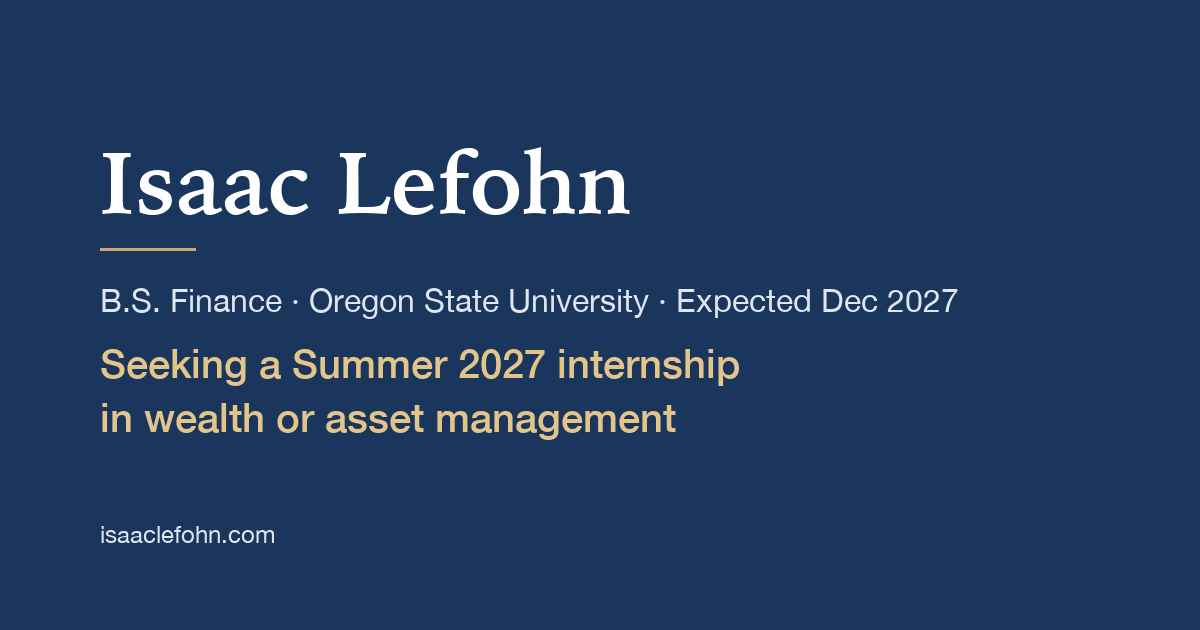
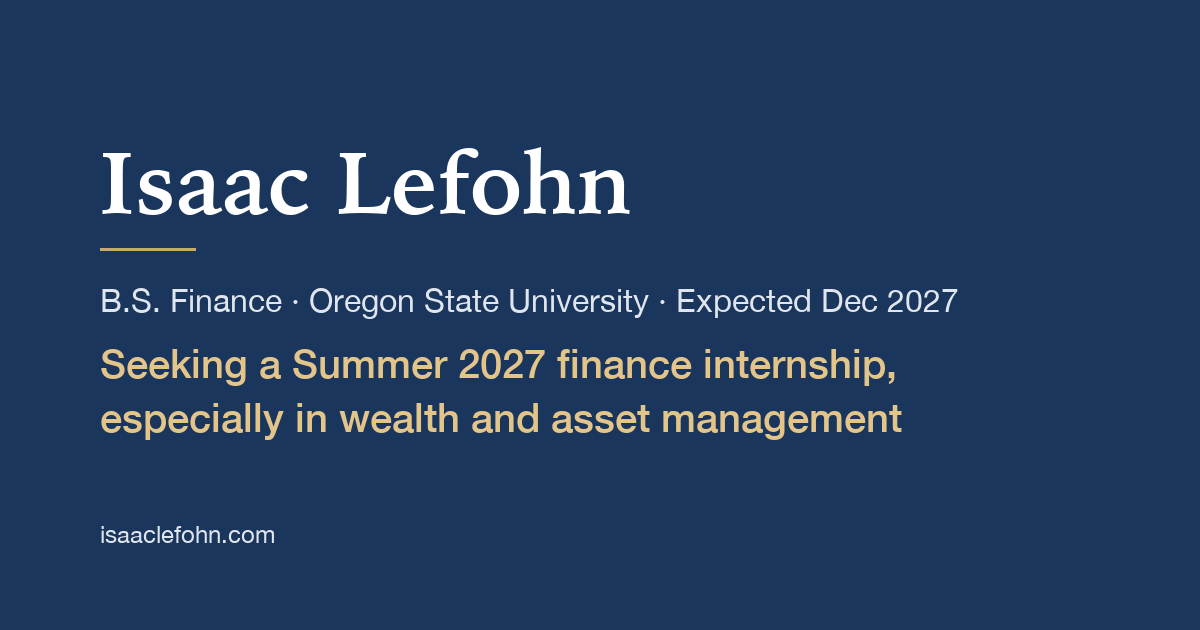
State interests without closing doors
- Ask now reads "Seeking a Summer 2027 finance internship, especially in
  wealth and asset management" (hero, footer, meta, link-preview card).
- Interests line names risk management and investment banking as genuine
  interests alongside wealth and asset management.
- Page descriptions list investment banking with the other areas.
- Preview card regenerated with the new ask line.

Changed region(s): [[0.0925, 0.6333, 0.7708, 0.6937], [0.4625, 0.5429, 0.74, 0.6032]]

diff --git a/index.html b/index.html
@@ -4,24 +4,24 @@
     <meta charset="UTF-8">
     <meta name="viewport" content="width=device-width, initial-scale=1.0">
     <title>Isaac Lefohn | Finance, Oregon State | Summer 2027 internship</title>
-    <meta name="description" content="Isaac Lefohn, Finance student at Oregon State University (B.S. expected December 2027), seeking a Summer 2027 internship in wealth management, asset management, or risk management. Published investment research and portfolio analysis.">
+    <meta name="description" content="Isaac Lefohn, Finance student at Oregon State University (B.S. expected December 2027), seeking a Summer 2027 internship in wealth management, asset management, risk management, or investment banking. Published investment research and portfolio analysis.">
     <meta name="author" content="Isaac Lefohn">
     <link rel="canonical" href="https://isaaclefohn.com/">
 
     <!-- Open Graph / link previews (iMessage reads og:title and og:image) -->
     <meta property="og:type" content="website">
     <meta property="og:title" content="Isaac Lefohn | Finance, Oregon State | Summer 2027 internship">
-    <meta property="og:description" content="Finance student at Oregon State University seeking a Summer 2027 internship in wealth management, asset management, or risk management. Published investment research and portfolio analysis.">
+    <meta property="og:description" content="Finance student at Oregon State University seeking a Summer 2027 internship in wealth management, asset management, risk management, or investment banking. Published investment research and portfolio analysis.">
     <meta property="og:url" content="https://isaaclefohn.com/">
     <meta property="og:site_name" content="Isaac Lefohn">
     <meta property="og:image" content="https://isaaclefohn.com/og-card-2026-10.png">
     <meta property="og:image:type" content="image/png">
     <meta property="og:image:width" content="1200">
     <meta property="og:image:height" content="630">
-    <meta property="og:image:alt" content="Isaac Lefohn. B.S. Finance, Oregon State University, expected December 2027. Seeking a Summer 2027 internship in wealth or asset management.">
+    <meta property="og:image:alt" content="Isaac Lefohn. B.S. Finance, Oregon State University, expected December 2027. Seeking a Summer 2027 finance internship, especially in wealth and asset management.">
     <meta name="twitter:card" content="summary_large_image">
     <meta name="twitter:image" content="https://isaaclefohn.com/og-card-2026-10.png">
-    <meta name="twitter:image:alt" content="Isaac Lefohn. B.S. Finance, Oregon State University, expected December 2027. Seeking a Summer 2027 internship in wealth or asset management.">
+    <meta name="twitter:image:alt" content="Isaac Lefohn. B.S. Finance, Oregon State University, expected December 2027. Seeking a Summer 2027 finance internship, especially in wealth and asset management.">
 
     <!-- JSON-LD Person schema -->
     <script type="application/ld+json">
@@ -31,7 +31,7 @@
       "name": "Isaac Lefohn",
       "url": "https://isaaclefohn.com/",
       "jobTitle": "Finance Student",
-      "description": "Finance student at Oregon State University, B.S. expected December 2027, seeking a Summer 2027 internship in wealth management, asset management, or risk management.",
+      "description": "Finance student at Oregon State University, B.S. expected December 2027, seeking a Summer 2027 internship in wealth management, asset management, risk management, or investment banking.",
       "affiliation": {
         "@type": "CollegeOrUniversity",
         "name": "Oregon State University",
@@ -85,7 +85,7 @@
             <div>
                 <p class="kicker">B.S. Finance&nbsp;&middot; Oregon State University&nbsp;&middot; Expected December 2027</p>
                 <h1>Isaac Lefohn</h1>
-                <p class="lead">Seeking a Summer 2027 internship in wealth or asset management.</p>
+                <p class="lead">Seeking a Summer 2027 finance internship, especially in wealth and asset management.</p>
                 <p class="meta">Available June&ndash;August 2027 &middot; Portland-based, open to opportunities nationwide</p>
                 <p>I publish my own investment research, with the Excel models and memos behind it.</p>
                 <div class="actions">
@@ -157,7 +157,7 @@
         <div class="wrap"><div class="prose">
             <h2 id="why-heading">Why wealth management</h2>
             <p>I believe financial literacy should be encouraged and taught to everyone. I care about understanding my own finances and planning for the future, and I want to help make that kind of planning accessible to others.</p>
-            <p>I&rsquo;m interested first in wealth management, then asset and investment management, then risk management.</p>
+            <p>I&rsquo;m most drawn to wealth management and asset and investment management, and I&rsquo;m also interested in risk management and investment banking.</p>
         </div></div>
     </section>
 
@@ -211,7 +211,7 @@
 </main>
 
 <footer class="site-footer"><div class="wrap">
-  <p class="footer-ask">Seeking a Summer 2027 internship in wealth or asset management.</p>
+  <p class="footer-ask">Seeking a Summer 2027 finance internship, especially in wealth and asset management.</p>
   <nav class="footer-links" aria-label="Contact"><ul>
     <li><a href="mailto:kiwilefohn@gmail.com?subject=Summer%202027%20internship">Email</a></li>
     <li><a href="tel:+15038477976">Call (503) 847-7976</a></li>

diff --git a/contact.html b/contact.html
@@ -4,23 +4,23 @@
 <meta charset="utf-8">
 <meta name="viewport" content="width=device-width, initial-scale=1">
 <title>Contact | Isaac Lefohn</title>
-<meta name="description" content="Contact Isaac Lefohn, Finance student at Oregon State University seeking a Summer 2027 internship in wealth or asset management. Email, call, text, or LinkedIn.">
+<meta name="description" content="Contact Isaac Lefohn, Finance student at Oregon State University seeking a Summer 2027 finance internship, especially in wealth and asset management. Email, call, text, or LinkedIn.">
 <meta name="author" content="Isaac Lefohn">
 <link rel="canonical" href="https://isaaclefohn.com/contact.html">
 
 <meta property="og:type" content="website">
 <meta property="og:title" content="Contact Isaac Lefohn">
-<meta property="og:description" content="Reach Isaac Lefohn about a Summer 2027 internship in wealth or asset management. Email, call, text, or LinkedIn.">
+<meta property="og:description" content="Reach Isaac Lefohn about a Summer 2027 finance internship, especially in wealth and asset management. Email, call, text, or LinkedIn.">
 <meta property="og:url" content="https://isaaclefohn.com/contact.html">
 <meta property="og:site_name" content="Isaac Lefohn">
 <meta property="og:image" content="https://isaaclefohn.com/og-card-2026-10.png">
 <meta property="og:image:type" content="image/png">
 <meta property="og:image:width" content="1200">
 <meta property="og:image:height" content="630">
-<meta property="og:image:alt" content="Isaac Lefohn. B.S. Finance, Oregon State University, expected December 2027. Seeking a Summer 2027 internship in wealth or asset management.">
+<meta property="og:image:alt" content="Isaac Lefohn. B.S. Finance, Oregon State University, expected December 2027. Seeking a Summer 2027 finance internship, especially in wealth and asset management.">
 <meta name="twitter:card" content="summary_large_image">
 <meta name="twitter:image" content="https://isaaclefohn.com/og-card-2026-10.png">
-<meta name="twitter:image:alt" content="Isaac Lefohn. B.S. Finance, Oregon State University, expected December 2027. Seeking a Summer 2027 internship in wealth or asset management.">
+<meta name="twitter:image:alt" content="Isaac Lefohn. B.S. Finance, Oregon State University, expected December 2027. Seeking a Summer 2027 finance internship, especially in wealth and asset management.">
 
 <meta name="theme-color" content="#ffffff">
 <link rel="stylesheet" href="/styles.css">
@@ -43,7 +43,7 @@
 <main id="main">
   <div class="wrap page-head">
     <h1>Contact</h1>
-    <p class="dek">Seeking a Summer 2027 internship in wealth or asset management.</p>
+    <p class="dek">Seeking a Summer 2027 finance internship, especially in wealth and asset management.</p>
     <p>Email is fastest. Happy to walk through any of the research on a call.</p>
   </div>
 
@@ -82,7 +82,7 @@
 </main>
 
 <footer class="site-footer"><div class="wrap">
-  <p class="footer-ask">Seeking a Summer 2027 internship in wealth or asset management.</p>
+  <p class="footer-ask">Seeking a Summer 2027 finance internship, especially in wealth and asset management.</p>
   <nav class="footer-links" aria-label="Contact"><ul>
     <li><a href="mailto:kiwilefohn@gmail.com?subject=Summer%202027%20internship">Email</a></li>
     <li><a href="tel:+15038477976">Call (503) 847-7976</a></li>

diff --git a/404.html b/404.html
@@ -4,23 +4,23 @@
 <meta charset="utf-8">
 <meta name="viewport" content="width=device-width, initial-scale=1">
 <title>Page not found | Isaac Lefohn</title>
-<meta name="description" content="This page was not found on isaaclefohn.com. Isaac Lefohn, B.S. Finance at Oregon State University, is seeking a Summer 2027 internship in wealth or asset management.">
+<meta name="description" content="This page was not found on isaaclefohn.com. Isaac Lefohn, B.S. Finance at Oregon State University, is seeking a Summer 2027 finance internship, especially in wealth and asset management.">
 <meta name="author" content="Isaac Lefohn">
 <meta name="robots" content="noindex">
 
 <meta property="og:type" content="website">
 <meta property="og:title" content="Page not found | Isaac Lefohn">
-<meta property="og:description" content="Isaac Lefohn, B.S. Finance at Oregon State University, expected December 2027. Seeking a Summer 2027 internship in wealth or asset management.">
+<meta property="og:description" content="Isaac Lefohn, B.S. Finance at Oregon State University, expected December 2027. Seeking a Summer 2027 finance internship, especially in wealth and asset management.">
 <meta property="og:url" content="https://isaaclefohn.com/404.html">
 <meta property="og:site_name" content="Isaac Lefohn">
 <meta property="og:image" content="https://isaaclefohn.com/og-card-2026-10.png">
 <meta property="og:image:type" content="image/png">
 <meta property="og:image:width" content="1200">
 <meta property="og:image:height" content="630">
-<meta property="og:image:alt" content="Isaac Lefohn. B.S. Finance, Oregon State University, expected December 2027. Seeking a Summer 2027 internship in wealth or asset management.">
+<meta property="og:image:alt" content="Isaac Lefohn. B.S. Finance, Oregon State University, expected December 2027. Seeking a Summer 2027 finance internship, especially in wealth and asset management.">
 <meta name="twitter:card" content="summary_large_image">
 <meta name="twitter:image" content="https://isaaclefohn.com/og-card-2026-10.png">
-<meta name="twitter:image:alt" content="Isaac Lefohn. B.S. Finance, Oregon State University, expected December 2027. Seeking a Summer 2027 internship in wealth or asset management.">
+<meta name="twitter:image:alt" content="Isaac Lefohn. B.S. Finance, Oregon State University, expected December 2027. Seeking a Summer 2027 finance internship, especially in wealth and asset management.">
 
 <meta name="theme-color" content="#ffffff">
 <link rel="stylesheet" href="/styles.css">
@@ -55,7 +55,7 @@
 </main>
 
 <footer class="site-footer"><div class="wrap">
-  <p class="footer-ask">Seeking a Summer 2027 internship in wealth or asset management.</p>
+  <p class="footer-ask">Seeking a Summer 2027 finance internship, especially in wealth and asset management.</p>
   <nav class="footer-links" aria-label="Contact"><ul>
     <li><a href="mailto:kiwilefohn@gmail.com?subject=Summer%202027%20internship">Email</a></li>
     <li><a href="tel:+15038477976">Call (503) 847-7976</a></li>

diff --git a/projects/portfolio-analysis/index.html b/projects/portfolio-analysis/index.html
@@ -3,21 +3,21 @@
 <meta charset="utf-8"><meta name="viewport" content="width=device-width, initial-scale=1">
 <meta name="robots" content="noindex">
 <title>Defensive portfolio vs. S&amp;P 500: max drawdown −15.7% vs. −24.5% | Isaac Lefohn</title>
-<meta name="description" content="Investment research by Isaac Lefohn, Oregon State University finance student seeking a Summer 2027 internship in wealth management, asset management, or risk management.">
+<meta name="description" content="Investment research by Isaac Lefohn, Oregon State University finance student seeking a Summer 2027 internship in wealth management, asset management, risk management, or investment banking.">
 <link rel="canonical" href="https://isaaclefohn.com/projects.html#portfolio-analysis">
 <meta property="og:type" content="website">
 <meta property="og:title" content="Defensive portfolio vs. S&amp;P 500: max drawdown −15.7% vs. −24.5% | Isaac Lefohn">
-<meta property="og:description" content="Investment research by Isaac Lefohn, Oregon State University finance student seeking a Summer 2027 internship in wealth management, asset management, or risk management.">
+<meta property="og:description" content="Investment research by Isaac Lefohn, Oregon State University finance student seeking a Summer 2027 internship in wealth management, asset management, risk management, or investment banking.">
 <meta property="og:url" content="https://isaaclefohn.com/projects/portfolio-analysis/">
 <meta property="og:site_name" content="Isaac Lefohn">
 <meta property="og:image" content="https://isaaclefohn.com/og-card-2026-10.png">
 <meta property="og:image:type" content="image/png">
 <meta property="og:image:width" content="1200">
 <meta property="og:image:height" content="630">
-<meta property="og:image:alt" content="Isaac Lefohn. B.S. Finance, Oregon State University, expected December 2027. Seeking a Summer 2027 internship in wealth or asset management.">
+<meta property="og:image:alt" content="Isaac Lefohn. B.S. Finance, Oregon State University, expected December 2027. Seeking a Summer 2027 finance internship, especially in wealth and asset management.">
 <meta name="twitter:card" content="summary_large_image">
 <meta name="twitter:image" content="https://isaaclefohn.com/og-card-2026-10.png">
-<meta name="twitter:image:alt" content="Isaac Lefohn. B.S. Finance, Oregon State University, expected December 2027. Seeking a Summer 2027 internship in wealth or asset management.">
+<meta name="twitter:image:alt" content="Isaac Lefohn. B.S. Finance, Oregon State University, expected December 2027. Seeking a Summer 2027 finance internship, especially in wealth and asset management.">
 <link rel="icon" href="/favicon.ico" sizes="any">
 <meta http-equiv="refresh" content="0; url=/projects.html#portfolio-analysis">
 <script>location.replace('/projects.html#portfolio-analysis');</script>

diff --git a/projects/stock-pitch-banr/index.html b/projects/stock-pitch-banr/index.html
@@ -3,21 +3,21 @@
 <meta charset="utf-8"><meta name="viewport" content="width=device-width, initial-scale=1">
 <meta name="robots" content="noindex">
 <title>Banner Corporation (BANR) pitch, April 23, 2026 | Isaac Lefohn</title>
-<meta name="description" content="Investment research by Isaac Lefohn, Oregon State University finance student seeking a Summer 2027 internship in wealth management, asset management, or risk management.">
+<meta name="description" content="Investment research by Isaac Lefohn, Oregon State University finance student seeking a Summer 2027 internship in wealth management, asset management, risk management, or investment banking.">
 <link rel="canonical" href="https://isaaclefohn.com/projects.html#stock-pitch-banr">
 <meta property="og:type" content="website">
 <meta property="og:title" content="Banner Corporation (BANR) pitch, April 23, 2026 | Isaac Lefohn">
-<meta property="og:description" content="Investment research by Isaac Lefohn, Oregon State University finance student seeking a Summer 2027 internship in wealth management, asset management, or risk management.">
+<meta property="og:description" content="Investment research by Isaac Lefohn, Oregon State University finance student seeking a Summer 2027 internship in wealth management, asset management, risk management, or investment banking.">
 <meta property="og:url" content="https://isaaclefohn.com/projects/stock-pitch-banr/">
 <meta property="og:site_name" content="Isaac Lefohn">
 <meta property="og:image" content="https://isaaclefohn.com/og-card-2026-10.png">
 <meta property="og:image:type" content="image/png">
 <meta property="og:image:width" content="1200">
 <meta property="og:image:height" content="630">
-<meta property="og:image:alt" content="Isaac Lefohn. B.S. Finance, Oregon State University, expected December 2027. Seeking a Summer 2027 internship in wealth or asset management.">
+<meta property="og:image:alt" content="Isaac Lefohn. B.S. Finance, Oregon State University, expected December 2027. Seeking a Summer 2027 finance internship, especially in wealth and asset management.">
 <meta name="twitter:card" content="summary_large_image">
 <meta name="twitter:image" content="https://isaaclefohn.com/og-card-2026-10.png">
-<meta name="twitter:image:alt" content="Isaac Lefohn. B.S. Finance, Oregon State University, expected December 2027. Seeking a Summer 2027 internship in wealth or asset management.">
+<meta name="twitter:image:alt" content="Isaac Lefohn. B.S. Finance, Oregon State University, expected December 2027. Seeking a Summer 2027 finance internship, especially in wealth and asset management.">
 <link rel="icon" href="/favicon.ico" sizes="any">
 <meta http-equiv="refresh" content="0; url=/projects.html#stock-pitch-banr">
 <script>location.replace('/projects.html#stock-pitch-banr');</script>

diff --git a/projects/banr-takeout/index.html b/projects/banr-takeout/index.html
@@ -3,21 +3,21 @@
 <meta charset="utf-8"><meta name="viewport" content="width=device-width, initial-scale=1">
 <meta name="robots" content="noindex">
 <title>Banner Corporation takeover-value cross-check | Isaac Lefohn</title>
-<meta name="description" content="Investment research by Isaac Lefohn, Oregon State University finance student seeking a Summer 2027 internship in wealth management, asset management, or risk management.">
+<meta name="description" content="Investment research by Isaac Lefohn, Oregon State University finance student seeking a Summer 2027 internship in wealth management, asset management, risk management, or investment banking.">
 <link rel="canonical" href="https://isaaclefohn.com/projects.html#banr-takeout">
 <meta property="og:type" content="website">
 <meta property="og:title" content="Banner Corporation takeover-value cross-check | Isaac Lefohn">
-<meta property="og:description" content="Investment research by Isaac Lefohn, Oregon State University finance student seeking a Summer 2027 internship in wealth management, asset management, or risk management.">
+<meta property="og:description" content="Investment research by Isaac Lefohn, Oregon State University finance student seeking a Summer 2027 internship in wealth management, asset management, risk management, or investment banking.">
 <meta property="og:url" content="https://isaaclefohn.com/projects/banr-takeout/">
 <meta property="og:site_name" content="Isaac Lefohn">
 <meta property="og:image" content="https://isaaclefohn.com/og-card-2026-10.png">
 <meta property="og:image:type" content="image/png">
 <meta property="og:image:width" content="1200">
 <meta property="og:image:height" content="630">
-<meta property="og:image:alt" content="Isaac Lefohn. B.S. Finance, Oregon State University, expected December 2027. Seeking a Summer 2027 internship in wealth or asset management.">
+<meta property="og:image:alt" content="Isaac Lefohn. B.S. Finance, Oregon State University, expected December 2027. Seeking a Summer 2027 finance internship, especially in wealth and asset management.">
 <meta name="twitter:card" content="summary_large_image">
 <meta name="twitter:image" content="https://isaaclefohn.com/og-card-2026-10.png">
-<meta name="twitter:image:alt" content="Isaac Lefohn. B.S. Finance, Oregon State University, expected December 2027. Seeking a Summer 2027 internship in wealth or asset management.">
+<meta name="twitter:image:alt" content="Isaac Lefohn. B.S. Finance, Oregon State University, expected December 2027. Seeking a Summer 2027 finance internship, especially in wealth and asset management.">
 <link rel="icon" href="/favicon.ico" sizes="any">
 <meta http-equiv="refresh" content="0; url=/projects.html#banr-takeout">
 <script>location.replace('/projects.html#banr-takeout');</script>

diff --git a/projects/pnw-banks/index.html b/projects/pnw-banks/index.html
@@ -3,21 +3,21 @@
 <meta charset="utf-8"><meta name="viewport" content="width=device-width, initial-scale=1">
 <meta name="robots" content="noindex">
 <title>Pacific Northwest regional banks comparison | Isaac Lefohn</title>
-<meta name="description" content="Investment research by Isaac Lefohn, Oregon State University finance student seeking a Summer 2027 internship in wealth management, asset management, or risk management.">
+<meta name="description" content="Investment research by Isaac Lefohn, Oregon State University finance student seeking a Summer 2027 internship in wealth management, asset management, risk management, or investment banking.">
 <link rel="canonical" href="https://isaaclefohn.com/projects.html#pnw-banks">
 <meta property="og:type" content="website">
 <meta property="og:title" content="Pacific Northwest regional banks comparison | Isaac Lefohn">
-<meta property="og:description" content="Investment research by Isaac Lefohn, Oregon State University finance student seeking a Summer 2027 internship in wealth management, asset management, or risk management.">
+<meta property="og:description" content="Investment research by Isaac Lefohn, Oregon State University finance student seeking a Summer 2027 internship in wealth management, asset management, risk management, or investment banking.">
 <meta property="og:url" content="https://isaaclefohn.com/projects/pnw-banks/">
 <meta property="og:site_name" content="Isaac Lefohn">
 <meta property="og:image" content="https://isaaclefohn.com/og-card-2026-10.png">
 <meta property="og:image:type" content="image/png">
 <meta property="og:image:width" content="1200">
 <meta property="og:image:height" content="630">
-<meta property="og:image:alt" content="Isaac Lefohn. B.S. Finance, Oregon State University, expected December 2027. Seeking a Summer 2027 internship in wealth or asset management.">
+<meta property="og:image:alt" content="Isaac Lefohn. B.S. Finance, Oregon State University, expected December 2027. Seeking a Summer 2027 finance internship, especially in wealth and asset management.">
 <meta name="twitter:card" content="summary_large_image">
 <meta name="twitter:image" content="https://isaaclefohn.com/og-card-2026-10.png">
-<meta name="twitter:image:alt" content="Isaac Lefohn. B.S. Finance, Oregon State University, expected December 2027. Seeking a Summer 2027 internship in wealth or asset management.">
+<meta name="twitter:image:alt" content="Isaac Lefohn. B.S. Finance, Oregon State University, expected December 2027. Seeking a Summer 2027 finance internship, especially in wealth and asset management.">
 <link rel="icon" href="/favicon.ico" sizes="any">
 <meta http-equiv="refresh" content="0; url=/projects.html#pnw-banks">
 <script>location.replace('/projects.html#pnw-banks');</script>

diff --git a/projects/dcf-wm/index.html b/projects/dcf-wm/index.html
@@ -3,21 +3,21 @@
 <meta charset="utf-8"><meta name="viewport" content="width=device-width, initial-scale=1">
 <meta name="robots" content="noindex">
 <title>Waste Management five-year DCF | Isaac Lefohn</title>
-<meta name="description" content="Investment research by Isaac Lefohn, Oregon State University finance student seeking a Summer 2027 internship in wealth management, asset management, or risk management.">
+<meta name="description" content="Investment research by Isaac Lefohn, Oregon State University finance student seeking a Summer 2027 internship in wealth management, asset management, risk management, or investment banking.">
 <link rel="canonical" href="https://isaaclefohn.com/projects.html#dcf-wm">
 <meta property="og:type" content="website">
 <meta property="og:title" content="Waste Management five-year DCF | Isaac Lefohn">
-<meta property="og:description" content="Investment research by Isaac Lefohn, Oregon State University finance student seeking a Summer 2027 internship in wealth management, asset management, or risk management.">
+<meta property="og:description" content="Investment research by Isaac Lefohn, Oregon State University finance student seeking a Summer 2027 internship in wealth management, asset management, risk management, or investment banking.">
 <meta property="og:url" content="https://isaaclefohn.com/projects/dcf-wm/">
 <meta property="og:site_name" content="Isaac Lefohn">
 <meta property="og:image" content="https://isaaclefohn.com/og-card-2026-10.png">
 <meta property="og:image:type" content="image/png">
 <meta property="og:image:width" content="1200">
 <meta property="og:image:height" content="630">
-<meta property="og:image:alt" content="Isaac Lefohn. B.S. Finance, Oregon State University, expected December 2027. Seeking a Summer 2027 internship in wealth or asset management.">
+<meta property="og:image:alt" content="Isaac Lefohn. B.S. Finance, Oregon State University, expected December 2027. Seeking a Summer 2027 finance internship, especially in wealth and asset management.">
 <meta name="twitter:card" content="summary_large_image">
 <meta name="twitter:image" content="https://isaaclefohn.com/og-card-2026-10.png">
-<meta name="twitter:image:alt" content="Isaac Lefohn. B.S. Finance, Oregon State University, expected December 2027. Seeking a Summer 2027 internship in wealth or asset management.">
+<meta name="twitter:image:alt" content="Isaac Lefohn. B.S. Finance, Oregon State University, expected December 2027. Seeking a Summer 2027 finance internship, especially in wealth and asset management.">
 <link rel="icon" href="/favicon.ico" sizes="any">
 <meta http-equiv="refresh" content="0; url=/projects.html#dcf-wm">
 <script>location.replace('/projects.html#dcf-wm');</script>

diff --git a/projects/index.html b/projects/index.html
@@ -3,21 +3,21 @@
 <meta charset="utf-8"><meta name="viewport" content="width=device-width, initial-scale=1">
 <meta name="robots" content="noindex">
 <title>Investment research by Isaac Lefohn</title>
-<meta name="description" content="Investment research by Isaac Lefohn, Oregon State University finance student seeking a Summer 2027 internship in wealth management, asset management, or risk management.">
+<meta name="description" content="Investment research by Isaac Lefohn, Oregon State University finance student seeking a Summer 2027 internship in wealth management, asset management, risk management, or investment banking.">
 <link rel="canonical" href="https://isaaclefohn.com/projects.html">
 <meta property="og:type" content="website">
 <meta property="og:title" content="Investment research by Isaac Lefohn">
-<meta property="og:description" content="Investment research by Isaac Lefohn, Oregon State University finance student seeking a Summer 2027 internship in wealth management, asset management, or risk management.">
+<meta property="og:description" content="Investment research by Isaac Lefohn, Oregon State University finance student seeking a Summer 2027 internship in wealth management, asset management, risk management, or investment banking.">
 <meta property="og:url" content="https://isaaclefohn.com/projects/">
 <meta property="og:site_name" content="Isaac Lefohn">
 <meta property="og:image" content="https://isaaclefohn.com/og-card-2026-10.png">
 <meta property="og:image:type" content="image/png">
 <meta property="og:image:width" content="1200">
 <meta property="og:image:height" content="630">
-<meta property="og:image:alt" content="Isaac Lefohn. B.S. Finance, Oregon State University, expected December 2027. Seeking a Summer 2027 internship in wealth or asset management.">
+<meta property="og:image:alt" content="Isaac Lefohn. B.S. Finance, Oregon State University, expected December 2027. Seeking a Summer 2027 finance internship, especially in wealth and asset management.">
 <meta name="twitter:card" content="summary_large_image">
 <meta name="twitter:image" content="https://isaaclefohn.com/og-card-2026-10.png">
-<meta name="twitter:image:alt" content="Isaac Lefohn. B.S. Finance, Oregon State University, expected December 2027. Seeking a Summer 2027 internship in wealth or asset management.">
+<meta name="twitter:image:alt" content="Isaac Lefohn. B.S. Finance, Oregon State University, expected December 2027. Seeking a Summer 2027 finance internship, especially in wealth and asset management.">
 <link rel="icon" href="/favicon.ico" sizes="any">
 <meta http-equiv="refresh" content="0; url=/projects.html">
 <script>location.replace('/projects.html');</script>

diff --git a/projects.html b/projects.html
@@ -18,10 +18,10 @@
     <meta property="og:image:type" content="image/png">
     <meta property="og:image:width" content="1200">
     <meta property="og:image:height" content="630">
-    <meta property="og:image:alt" content="Isaac Lefohn. B.S. Finance, Oregon State University, expected December 2027. Seeking a Summer 2027 internship in wealth or asset management.">
+    <meta property="og:image:alt" content="Isaac Lefohn. B.S. Finance, Oregon State University, expected December 2027. Seeking a Summer 2027 finance internship, especially in wealth and asset management.">
     <meta name="twitter:card" content="summary_large_image">
     <meta name="twitter:image" content="https://isaaclefohn.com/og-card-2026-10.png">
-    <meta name="twitter:image:alt" content="Isaac Lefohn. B.S. Finance, Oregon State University, expected December 2027. Seeking a Summer 2027 internship in wealth or asset management.">
+    <meta name="twitter:image:alt" content="Isaac Lefohn. B.S. Finance, Oregon State University, expected December 2027. Seeking a Summer 2027 finance internship, especially in wealth and asset management.">
 
     <meta name="theme-color" content="#ffffff">
     <link rel="stylesheet" href="/styles.css">
@@ -244,7 +244,7 @@
 </main>
 
 <footer class="site-footer"><div class="wrap">
-  <p class="footer-ask">Seeking a Summer 2027 internship in wealth or asset management.</p>
+  <p class="footer-ask">Seeking a Summer 2027 finance internship, especially in wealth and asset management.</p>
   <nav class="footer-links" aria-label="Contact"><ul>
     <li><a href="mailto:kiwilefohn@gmail.com?subject=Summer%202027%20internship">Email</a></li>
     <li><a href="tel:+15038477976">Call (503) 847-7976</a></li>

diff --git a/experience.html b/experience.html
@@ -17,10 +17,10 @@
 <meta property="og:image:type" content="image/png">
 <meta property="og:image:width" content="1200">
 <meta property="og:image:height" content="630">
-<meta property="og:image:alt" content="Isaac Lefohn. B.S. Finance, Oregon State University, expected December 2027. Seeking a Summer 2027 internship in wealth or asset management.">
+<meta property="og:image:alt" content="Isaac Lefohn. B.S. Finance, Oregon State University, expected December 2027. Seeking a Summer 2027 finance internship, especially in wealth and asset management.">
 <meta name="twitter:card" content="summary_large_image">
 <meta name="twitter:image" content="https://isaaclefohn.com/og-card-2026-10.png">
-<meta name="twitter:image:alt" content="Isaac Lefohn. B.S. Finance, Oregon State University, expected December 2027. Seeking a Summer 2027 internship in wealth or asset management.">
+<meta name="twitter:image:alt" content="Isaac Lefohn. B.S. Finance, Oregon State University, expected December 2027. Seeking a Summer 2027 finance internship, especially in wealth and asset management.">
 
 <meta name="theme-color" content="#ffffff">
 <link rel="stylesheet" href="/styles.css">
@@ -174,7 +174,7 @@
 </main>
 
 <footer class="site-footer"><div class="wrap">
-  <p class="footer-ask">Seeking a Summer 2027 internship in wealth or asset management.</p>
+  <p class="footer-ask">Seeking a Summer 2027 finance internship, especially in wealth and asset management.</p>
   <nav class="footer-links" aria-label="Contact"><ul>
     <li><a href="mailto:kiwilefohn@gmail.com?subject=Summer%202027%20internship">Email</a></li>
     <li><a href="tel:+15038477976">Call (503) 847-7976</a></li>

diff --git a/resume.html b/resume.html
@@ -17,10 +17,10 @@
 <meta property="og:image:type" content="image/png">
 <meta property="og:image:width" content="1200">
 <meta property="og:image:height" content="630">
-<meta property="og:image:alt" content="Isaac Lefohn. B.S. Finance, Oregon State University, expected December 2027. Seeking a Summer 2027 internship in wealth or asset management.">
+<meta property="og:image:alt" content="Isaac Lefohn. B.S. Finance, Oregon State University, expected December 2027. Seeking a Summer 2027 finance internship, especially in wealth and asset management.">
 <meta name="twitter:card" content="summary_large_image">
 <meta name="twitter:image" content="https://isaaclefohn.com/og-card-2026-10.png">
-<meta name="twitter:image:alt" content="Isaac Lefohn. B.S. Finance, Oregon State University, expected December 2027. Seeking a Summer 2027 internship in wealth or asset management.">
+<meta name="twitter:image:alt" content="Isaac Lefohn. B.S. Finance, Oregon State University, expected December 2027. Seeking a Summer 2027 finance internship, especially in wealth and asset management.">
 
 <meta name="theme-color" content="#ffffff">
 <link rel="stylesheet" href="/styles.css">
@@ -56,7 +56,7 @@
 </main>
 
 <footer class="site-footer"><div class="wrap">
-  <p class="footer-ask">Seeking a Summer 2027 internship in wealth or asset management.</p>
+  <p class="footer-ask">Seeking a Summer 2027 finance internship, especially in wealth and asset management.</p>
   <nav class="footer-links" aria-label="Contact"><ul>
     <li><a href="mailto:kiwilefohn@gmail.com?subject=Summer%202027%20internship">Email</a></li>
     <li><a href="tel:+15038477976">Call (503) 847-7976</a></li>
